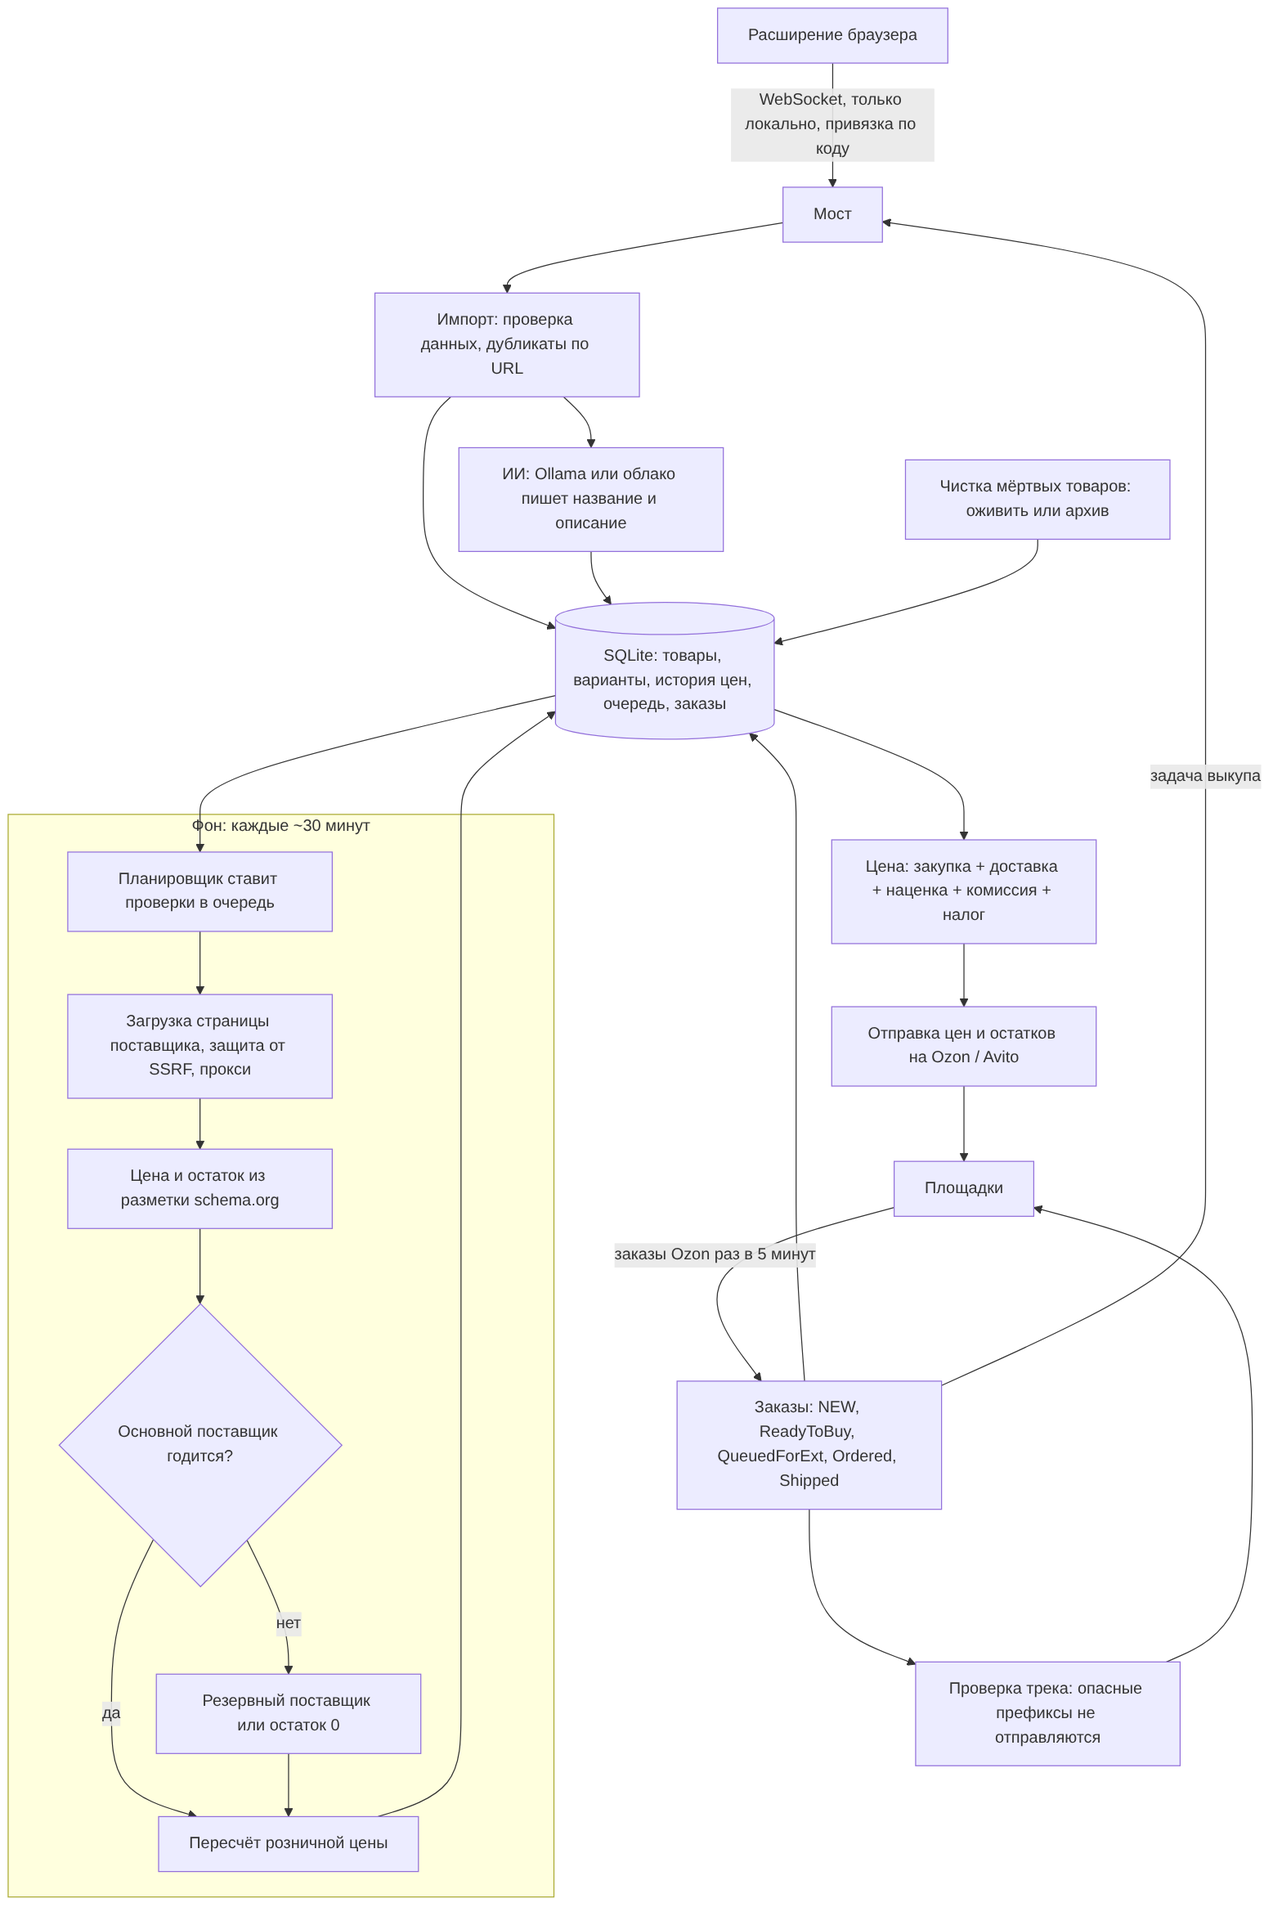
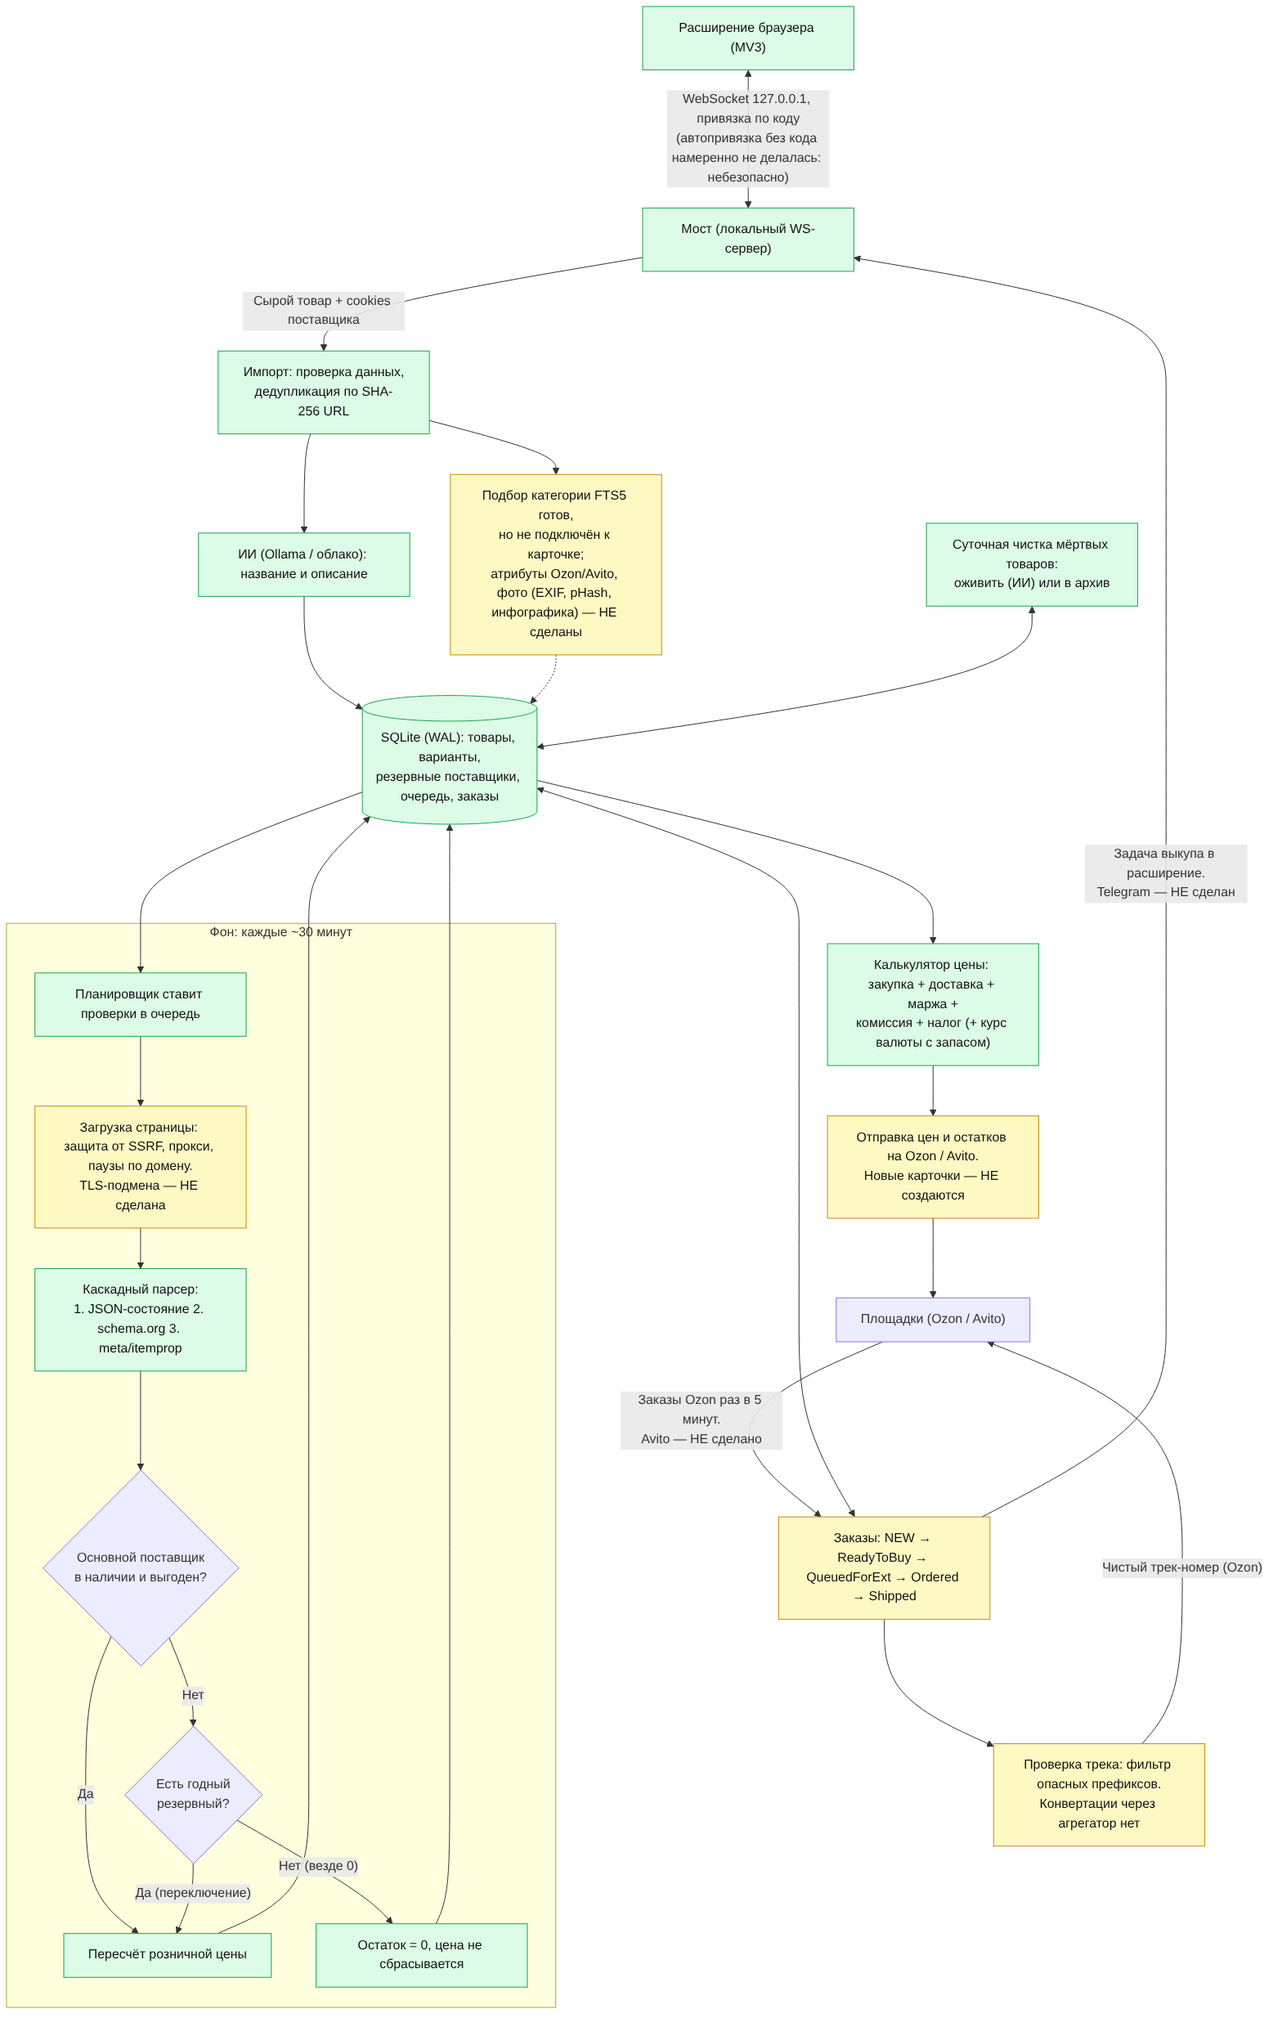
Step 9: align with the user's schemes (cascade parser, daily pruning, backup-supplier API); redraw schemes by fact
Why: user asked to check the logic against their schemes and fix mismatches.
What: parse cascade JSON-state/JSON-LD/meta; maintenance_tick prunes daily; ADD_BACKUP_SUPPLIER RPC + window commands;
schemes show implemented vs missing parts; audit table in dev-log.
Proof: 3 new tests (192 pass), clippy clean, diagrams rendered and checked.

Claude-Session: https://claude.ai/code/session_01HT6JtrYkYzhJiyCmNYCK4B

diff --git a/src-tauri/src/monitor/parse.rs b/src-tauri/src/monitor/parse.rs
@@ -83,17 +83,78 @@ fn collect_offers(node: &Value, inherited_sku: Option<&str>, out: &mut Vec<Offer
     }
 }
 
+/// Каскад (от надёжного к грубому): 1) JSON-состояние страницы (`__NEXT_DATA__`, `application/json`),
+/// 2) schema.org JSON-LD, 3) разметка `meta`/`itemprop`. Следующий шаг работает, только если предыдущий ничего не нашёл.
 pub fn parse_offers(html: &str) -> Vec<Offer> {
     let document = Html::parse_document(html);
-    let Ok(selector) = Selector::parse(r#"script[type="application/ld+json"]"#) else { return Vec::new() };
-    let mut offers = Vec::new();
-    for script in document.select(&selector) {
-        let raw: String = script.text().collect();
-        if let Ok(value) = serde_json::from_str::<Value>(raw.trim()) {
-            collect_offers(&value, None, &mut offers);
+    for step in [from_json_state, from_json_ld, from_meta] {
+        let offers = step(&document);
+        if !offers.is_empty() {
+            return offers;
         }
     }
+    Vec::new()
+}
+
+fn scripts(document: &Html, css: &str) -> Vec<Value> {
+    let Ok(selector) = Selector::parse(css) else { return Vec::new() };
+    document.select(&selector).filter_map(|s| serde_json::from_str::<Value>(s.text().collect::<String>().trim()).ok()).collect()
+}
+
+fn from_json_ld(document: &Html) -> Vec<Offer> {
+    let mut offers = Vec::new();
+    for value in scripts(document, r#"script[type="application/ld+json"]"#) {
+        collect_offers(&value, None, &mut offers);
+    }
     offers
+}
+
+/// Ищет в произвольном JSON ключи `offers` с ценой (так отдают данные Next.js и подобные сайты).
+fn collect_state_offers(node: &Value, out: &mut Vec<Offer>, depth: usize) {
+    if depth > 24 {
+        return;
+    }
+    match node {
+        Value::Array(items) => items.iter().for_each(|n| collect_state_offers(n, out, depth + 1)),
+        Value::Object(map) => {
+            if let Some(offers) = map.get("offers") {
+                let list: Vec<&Value> = match offers {
+                    Value::Array(items) => items.iter().collect(),
+                    other => vec![other],
+                };
+                out.extend(list.into_iter().filter(|n| n.is_object()).filter_map(offer_from));
+            }
+            map.iter().filter(|(k, _)| k.as_str() != "offers").for_each(|(_, v)| collect_state_offers(v, out, depth + 1));
+        }
+        _ => {}
+    }
+}
+
+fn from_json_state(document: &Html) -> Vec<Offer> {
+    let mut offers = Vec::new();
+    for value in scripts(document, r#"script#__NEXT_DATA__, script[type="application/json"]"#) {
+        collect_state_offers(&value, &mut offers, 0);
+    }
+    offers
+}
+
+fn attr_or_text(document: &Html, css: &str) -> Option<String> {
+    let selector = Selector::parse(css).ok()?;
+    let el = document.select(&selector).next()?;
+    let v = el.value();
+    let text = v.attr("content").or_else(|| v.attr("href")).map(str::to_string).unwrap_or_else(|| el.text().collect::<String>());
+    Some(text.trim().to_string()).filter(|t| !t.is_empty())
+}
+
+fn from_meta(document: &Html) -> Vec<Offer> {
+    let price = ["meta[property=\"product:price:amount\"]", "meta[property=\"og:price:amount\"]", "[itemprop=\"price\"]"]
+        .iter()
+        .find_map(|css| attr_or_text(document, css))
+        .and_then(|t| parse_price_minor(&t));
+    let Some(price_minor) = price else { return Vec::new() };
+    let availability = ["meta[property=\"product:availability\"]", "[itemprop=\"availability\"]"].iter().find_map(|css| attr_or_text(document, css)).unwrap_or_default().to_ascii_lowercase();
+    let sold_out = availability.contains("outofstock") || availability.contains("out of stock") || availability.contains("oos") || availability.contains("soldout");
+    vec![Offer { sku: None, price_minor, stock: if sold_out { 0 } else { NOMINAL_STOCK } }]
 }
 
 #[cfg(test)]
@@ -134,6 +195,22 @@ mod tests {
         let html = page(r#"{"@graph":[{"@type":"Product","offers":[{"@type":"Offer","sku":"S","price":"10"},{"@type":"Offer","sku":"M","price":"12","availability":"OutOfStock"}]}]}"#);
         let offers = parse_offers(&html);
         assert_eq!(offers.iter().map(|o| (o.sku.clone().unwrap(), o.price_minor, o.stock)).collect::<Vec<_>>(), vec![("S".into(), 1000, 99), ("M".into(), 1200, 0)]);
+    }
+
+    #[test]
+    fn cascade_falls_back_to_json_state_then_meta_and_prefers_the_reliable_source() {
+        let state = r#"<script id="__NEXT_DATA__" type="application/json">{"props":{"pageProps":{"product":{"offers":[{"sku":"S1","price":"2 490","availability":"OutOfStock"},{"sku":"S2","price":3100,"inventoryLevel":4}]}}}}</script>"#;
+        let offers = parse_offers(state);
+        assert_eq!(offers.iter().map(|o| (o.sku.clone().unwrap(), o.price_minor, o.stock)).collect::<Vec<_>>(), vec![("S1".into(), 249_000, 0), ("S2".into(), 310_000, 4)]);
+
+        let meta = r#"<meta property="product:price:amount" content="1 990,00"><meta property="product:availability" content="out of stock">"#;
+        assert_eq!(parse_offers(meta), vec![Offer { sku: None, price_minor: 199_000, stock: 0 }]);
+        let micro = r#"<span itemprop="price" content="499.90"></span><link itemprop="availability" href="https://schema.org/InStock">"#;
+        assert_eq!(parse_offers(micro), vec![Offer { sku: None, price_minor: 49_990, stock: 99 }]);
+
+        let both = format!("{state}{}", page(r#"{"@type":"Product","offers":{"@type":"Offer","price":"1"}}"#));
+        assert_eq!(parse_offers(&both).len(), 2, "JSON-состояние приоритетнее JSON-LD");
+        assert!(parse_offers(r#"<meta property="product:price:amount" content="бесплатно">"#).is_empty());
     }
 
     #[test]

diff --git a/src-tauri/src/services.rs b/src-tauri/src/services.rs
@@ -15,7 +15,7 @@ use crate::error::AppResult;
 use crate::monitor::fetch::{DomainThrottle, FetchError, HttpFetcher, Page, PageFetcher};
 use crate::monitor::{self, SyncOutcome};
 use crate::security::CredentialVault;
-use crate::{orders, stores, sync};
+use crate::{failover, orders, stores, sync};
 
 const TICK: Duration = Duration::from_secs(30);
 const MAX_TASKS_PER_TICK: usize = 50;
@@ -79,6 +79,22 @@ impl ExtraMethods for AppRpc {
                 let Some(track) = opt_str(params, "tracking_number") else { return Err(RpcError::new(INVALID_PARAMS, "нужен параметр tracking_number")) };
                 let status = orders::record_tracking(&self.pool, order_id(params)?, track, opt_str(params, "carrier"), now).await?;
                 Ok(json!({ "status": status }))
+            }
+            "ADD_BACKUP_SUPPLIER" => {
+                let int = |k: &str| params.get(k).and_then(Value::as_i64);
+                let (Some(variant_id), Some(url), Some(price)) = (int("variant_id"), opt_str(params, "url"), int("price_cents")) else {
+                    return Err(RpcError::new(INVALID_PARAMS, "нужны variant_id, url и price_cents"));
+                };
+                let supplier = failover::NewSupplier {
+                    priority: int("priority").unwrap_or(2),
+                    url,
+                    sku: opt_str(params, "sku").unwrap_or("backup"),
+                    price_minor: price,
+                    shipping_minor: int("shipping_cents").unwrap_or(0),
+                    stock: int("stock").unwrap_or(0),
+                };
+                failover::upsert_backup(&self.pool, variant_id, &supplier, now).await?;
+                Ok(json!({"ok": true}))
             }
             other => Err(RpcError::new(METHOD_NOT_FOUND, format!("метод {other} не поддерживается"))),
         }
@@ -168,6 +184,18 @@ pub async fn orders_tick(pool: &SqlitePool, vault: &CredentialVault, notifier: &
     Ok(handed)
 }
 
+const PRUNE_INTERVAL_SECS: i64 = 86_400;
+
+/// Раз в сутки: чистка «мёртвых» карточек. Возвращает отчёт, если чистка прошла в этом вызове.
+pub async fn maintenance_tick(pool: &SqlitePool, now: i64) -> AppResult<Option<crate::pruner::PruneReport>> {
+    let last = crate::settings::get(pool, "last_prune_at").await?.and_then(|v| v.parse::<i64>().ok()).unwrap_or(0);
+    if now - last < PRUNE_INTERVAL_SECS {
+        return Ok(None);
+    }
+    crate::settings::set(pool, "last_prune_at", &now.to_string(), now).await?;
+    Ok(Some(crate::pruner::run(pool, &crate::pruner::PruneRule::default(), now).await?))
+}
+
 async fn monitor_loop(pool: SqlitePool, vault: Arc<CredentialVault>, bridge: Arc<BridgeState>, cancel: CancellationToken) {
     let fetcher = ThrottledFetcher { inner: HttpFetcher { allow_private: false }, throttle: DomainThrottle::new(SUPPLIER_GAP_MS) };
     while !cancel.is_cancelled() {
@@ -176,6 +204,9 @@ async fn monitor_loop(pool: SqlitePool, vault: Arc<CredentialVault>, bridge: Arc
         }
         if let Err(e) = orders_tick(&pool, &vault, bridge.as_ref(), now_secs()).await {
             tracing::error!(error = %e, "ошибка цикла заказов");
+        }
+        if let Err(e) = maintenance_tick(&pool, now_secs()).await {
+            tracing::error!(error = %e, "ошибка суточной чистки");
         }
         tokio::select! {
             _ = cancel.cancelled() => break,
@@ -267,6 +298,31 @@ mod tests {
         assert_eq!(report.stores_synced, 0);
         let err: Option<String> = sqlx::query_scalar("SELECT last_error FROM stores WHERE platform_type = 'ozon'").fetch_one(&pool).await.unwrap();
         assert!(err.unwrap().contains("ключ"));
+    }
+
+    #[tokio::test]
+    async fn backup_supplier_rpc_adds_validates_and_feeds_failover() {
+        let (_d, pool) = pool().await;
+        let (_s, _p, variant) = crate::testutil::insert_product(&pool, "local", "bk").await;
+        let rpc = AppRpc { pool: pool.clone(), vault: Arc::new(CredentialVault::from_key([2; 32])), update_api: String::new() };
+        let ok = json!({"variant_id": variant, "url": "https://alt.example/item/1", "price_cents": 90_000, "stock": 5});
+        assert_eq!(rpc.handle("ADD_BACKUP_SUPPLIER", &ok, 5).await.unwrap(), json!({"ok": true}));
+        assert!(failover::has_suppliers(&mut pool.acquire().await.unwrap(), variant).await.unwrap());
+        assert_eq!(rpc.handle("ADD_BACKUP_SUPPLIER", &json!({"variant_id": variant}), 5).await.unwrap_err().code, INVALID_PARAMS);
+        let bad_url = json!({"variant_id": variant, "url": "ftp://x", "price_cents": 1});
+        assert!(rpc.handle("ADD_BACKUP_SUPPLIER", &bad_url, 5).await.is_err());
+    }
+
+    #[tokio::test]
+    async fn maintenance_prunes_once_a_day() {
+        let (_d, pool) = pool().await;
+        let (_s, product, _v) = crate::testutil::insert_product(&pool, "local", "mt").await;
+        let day = 86_400;
+        sqlx::query("UPDATE products SET published_at = 1 WHERE id = ?").bind(product).execute(&pool).await.unwrap();
+        let first = maintenance_tick(&pool, 40 * day).await.unwrap().expect("первая чистка");
+        assert_eq!(first.reanimated, 1);
+        assert!(maintenance_tick(&pool, 40 * day + 3_600).await.unwrap().is_none(), "в течение суток повторно не запускается");
+        assert!(maintenance_tick(&pool, 41 * day + 10).await.unwrap().is_some());
     }
 
     #[tokio::test]

diff --git a/src-tauri/src/commands.rs b/src-tauri/src/commands.rs
@@ -180,6 +180,30 @@ pub async fn order_set_tracking(state: S<'_>, order_id: i64, tracking_number: St
     Ok(json!({ "status": status }))
 }
 
+// ---- резервные поставщики ----
+
+#[derive(serde::Deserialize)]
+pub struct BackupInput {
+    pub variant_id: i64,
+    pub priority: i64,
+    pub url: String,
+    pub sku: String,
+    pub price_minor: i64,
+    pub shipping_minor: i64,
+    pub stock: i64,
+}
+
+#[tauri::command]
+pub async fn add_backup_supplier(state: S<'_>, input: BackupInput) -> AppResult<()> {
+    let supplier = crate::failover::NewSupplier { priority: input.priority, url: &input.url, sku: &input.sku, price_minor: input.price_minor, shipping_minor: input.shipping_minor, stock: input.stock };
+    crate::failover::upsert_backup(&state.pool, input.variant_id, &supplier, now_secs()).await
+}
+
+#[tauri::command]
+pub async fn remove_backup_supplier(state: S<'_>, variant_id: i64, priority: i64) -> AppResult<()> {
+    crate::failover::remove_backup(&state.pool, variant_id, priority, now_secs()).await
+}
+
 // ---- расширение ----
 
 #[tauri::command]

diff --git a/src-tauri/src/lib.rs b/src-tauri/src/lib.rs
@@ -113,6 +113,8 @@ pub fn run() -> Result<(), Box<dyn std::error::Error>> {
         .invoke_handler(tauri::generate_handler![
             price_breakdown,
             commands::list_products,
+            commands::add_backup_supplier,
+            commands::remove_backup_supplier,
             commands::product_detail,
             commands::update_product_text,
             commands::retry_ai,

diff --git a/docs/dev-log.md b/docs/dev-log.md
@@ -132,3 +132,19 @@
 5. **`list_products` с большим offset**: keyset-пагинация по `id` вместо `OFFSET` (25 мс на 9000 — пока не нужно).
 6. **HTTP-клиент мониторинга** создаётся на каждый запрос (из-за привязки DNS к проверенному IP) — кэшировать клиент по (хост, IP) на 60 с; выигрыш — в TLS-рукопожатиях, измерить можно только на живой сети.
 7. **N+1 в `apply_observed`/`has_suppliers`**: один запрос на товар с подзапросом вместо трёх — копейки, пока проверок ~5/с.
+
+
+## Шаг 9 — сверка со схемами пользователя
+
+Сверил код с присланными схемами (user/core). Исправлено: каскадный парсер цены (JSON-состояние → schema.org → meta/itemprop, 1 тест), суточная чистка мёртвых товаров подключена к циклу (`maintenance_tick`, тест), резервные поставщики доступны через RPC `ADD_BACKUP_SUPPLIER` и команды окна (тест). Схемы в `docs/scheme-*.png` перерисованы по факту: зелёное — работает, жёлтое — частично или не сделано (прямо подписано).
+
+Расхождения, которые **не** исправлены, и почему:
+| В схеме | Факт | Причина |
+|---|---|---|
+| Автопривязка расширения без кода | код из 8 символов | любая страница в браузере могла бы привязаться к локальному мосту; осознанное решение |
+| «Опубликовать в 1 клик», создание карточек | ID привязывается вручную | нужны словари категорий и атрибутов Ozon/Avito и живая документация API |
+| Категория, атрибуты, фото (EXIF/pHash/инфографика) | подбор категории (FTS5) есть, в карточку не подключён | нужен кэш категорий из API площадок; обработка фото не писалась |
+| Заказы Avito, Telegram | нет | живые API, токены бота |
+| Автозаполнение адреса у поставщика | расширение открывает страницу, остальное вручную | хрупко, зависит от каждого сайта; оплату всё равно подтверждает человек |
+| TLS-подмена, конвертация трека через агрегатор | нет | внешние сервисы |
+| Кнопки резервных поставщиков в окне/расширении | есть команда и RPC, кнопок нет | не успел интерфейс |
